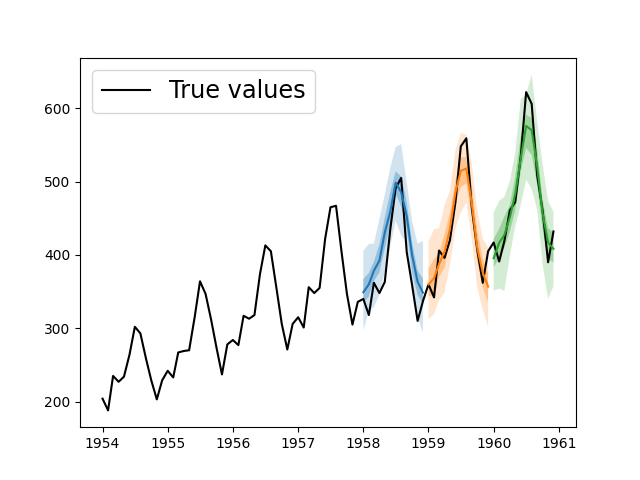
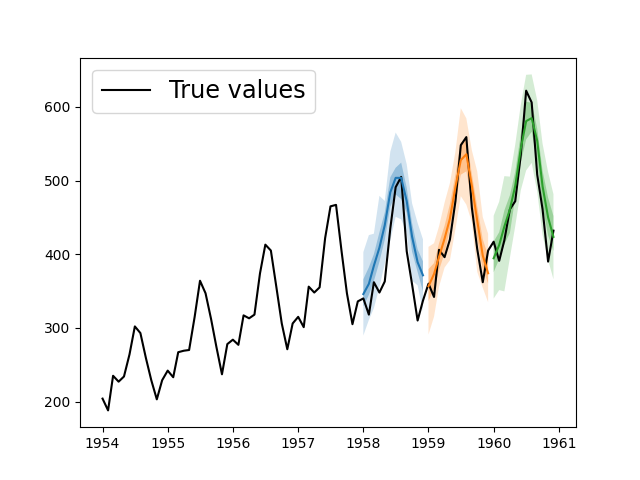
0919

diff --git a/t-g.py b/t-g.py
@@ -4,29 +4,69 @@ import sys, os
 
 from gluonts.dataset.pandas import PandasDataset
 from gluonts.dataset.split import split
+from gluonts.dataset.util import to_pandas
 from gluonts.torch import DeepAREstimator
+from gluonts.dataset.util import to_pandas
+
+
+def highlight_entry(entry, color):
+    start = entry["start"]
+    end = entry["start"] + len(entry["target"])
+    plt.axvspan(start, end, facecolor=color, alpha=0.2)
+
+
+def plot_dataset_splitting(original_dataset, training_dataset, test_pairs):
+    for original_entry, train_entry in zip(original_dataset, training_dataset):
+        to_pandas(original_entry).plot()
+        highlight_entry(train_entry, "red")
+        plt.legend(["sub dataset", "training dataset"], loc="upper left")
+        # plt.show()
+        plt.savefig(f"111.png")
+    for original_entry in original_dataset:
+        for test_input, test_label in test_pairs:
+            to_pandas(original_entry).plot()
+            highlight_entry(test_input, "green")
+            highlight_entry(test_label, "blue")
+            plt.legend(["sub dataset", "test input", "test label"], loc="upper left")
+            # plt.show()
+            plt.savefig(f"222.png")
 
 
 def parse_df(_df, _target):
-    dataset = PandasDataset(_df, target=_target)
-    # Split the data for training and testing
-    training_data, test_gen = split(dataset, offset=-36)
-    test_data = test_gen.generate_instances(prediction_length=12, windows=3)
-    # Train the model and make predictions
+    ##### timestamp column is not evenly spaced and monotonically increasing we get an error when using PandasDataset. Here we show how to fill in the gaps that are missing
+    max_end = max(_df.groupby("item_id").apply(lambda _df: _df.index[-1]))
+    dfs_dict = {}
+    for item_id, gdf in df.groupby("item_id"):
+        new_index = pd.date_range(gdf.index[0], end=max_end, freq="5T")  # 设置为5分钟频率
+        dfs_dict[item_id] = gdf.reindex(new_index).assign(item_id=item_id).fillna(method='ffill')  # 可以使用fillna填充缺失值
+    print(dfs_dict)
+    # 这里dfs_dict包含了重新索引后的DataFrame
+    _ds = PandasDataset(dfs_dict, target=_target)
+    print(_ds)
+    # _ds = PandasDataset.from_long_dataframe(ds, target=_target, item_id="item_id")
+
+    ##### Split the data for training and testing
+    prediction_length = 1 * 24 * 12
+    # training_data, test_gen = split(_ds, offset=-840)
+    training_data, test_gen = split(_ds, date=pd.Period("2023-09-14 00:00:00", freq="5T"))
+    test_data = test_gen.generate_instances(prediction_length=prediction_length, windows=3)
+    # plot_dataset_splitting(_ds, training_data, test_data)
+    # ##### Train the model and make predictions
     model = DeepAREstimator(
-        prediction_length=24,
-        freq="H",
-        trainer_kwargs={"max_epochs": 5}
+        prediction_length=prediction_length,
+        freq="5T",
+        trainer_kwargs={"max_epochs": 10}
     ).train(training_data)
     forecasts = list(model.predict(test_data.input))
-    print(forecasts)
-    # Plot predictions
-    # plt.plot(df, color="black")
+    # print(forecasts)
+    ##### Plot predictions
+    plt.plot(_df[_target], color="black")
     for forecast in forecasts:
-        forecast.plot()
+        forecast.plot(show_label=True)
     plt.legend(["True values"], loc="upper left", fontsize="xx-large")
     name, extension = os.path.splitext(_csv)
     plt.savefig(f"{name}_g_{_target}.png")
+
 
 def remove_timezone(timestamp):
     return timestamp.replace("Z", "")
@@ -34,26 +74,25 @@ def remove_timezone(timestamp):
 _csv = sys.argv[1]
 
 df = pd.read_csv(_csv)
-# print(df.head())
 df.rename(columns={'timestamp': 'ds'}, inplace=True)
 df['ds'] = df['ds'].apply(remove_timezone)
-# print(df.head())
-# df.index = pd.to_datetime(df[df.columns[0]])
-df.index = pd.to_datetime(df.index)
+print(df.head())
+
+df = pd.read_csv(_csv, index_col=0, parse_dates=True)
+print(df.head())
+
+other_columns = df.columns[0:]
+print(other_columns)
+
+df["item_id"] = 0
+df = df.sort_index(ascending=True)
+print(df.head())
+
 # exit()
 
-other_columns = df.columns[1:]
 
-dfs = {}
-for col in other_columns:
-    dfs[col] = df[['ds', col]]
-
-for _key, _df in dfs.items():
-    print(f"'{_key}':")
-    # print(_df)
-    _df.index = pd.to_datetime(_df.index)
-    print(_df.head())
-    print(_df.tail())
-    parse_df(_df, _key)
+for i in other_columns:
+    print(i)
+    parse_df(df, i)
     print("----")
 

diff --git a/t-gluonts.py b/t-gluonts.py
@@ -17,6 +17,7 @@ df = pd.read_csv(
 print(df.head())
 
 dataset = PandasDataset(df, target="#Passengers")
+print(dataset)
 
 # Split the data for training and testing
 training_data, test_gen = split(dataset, offset=-36)
@@ -30,7 +31,7 @@ model = DeepAREstimator(
 ).train(training_data)
 
 forecasts = list(model.predict(test_data.input))
-print(forecasts)
+# print(forecasts)
 
 # Plot predictions
 plt.plot(df["1954":], color="black")
